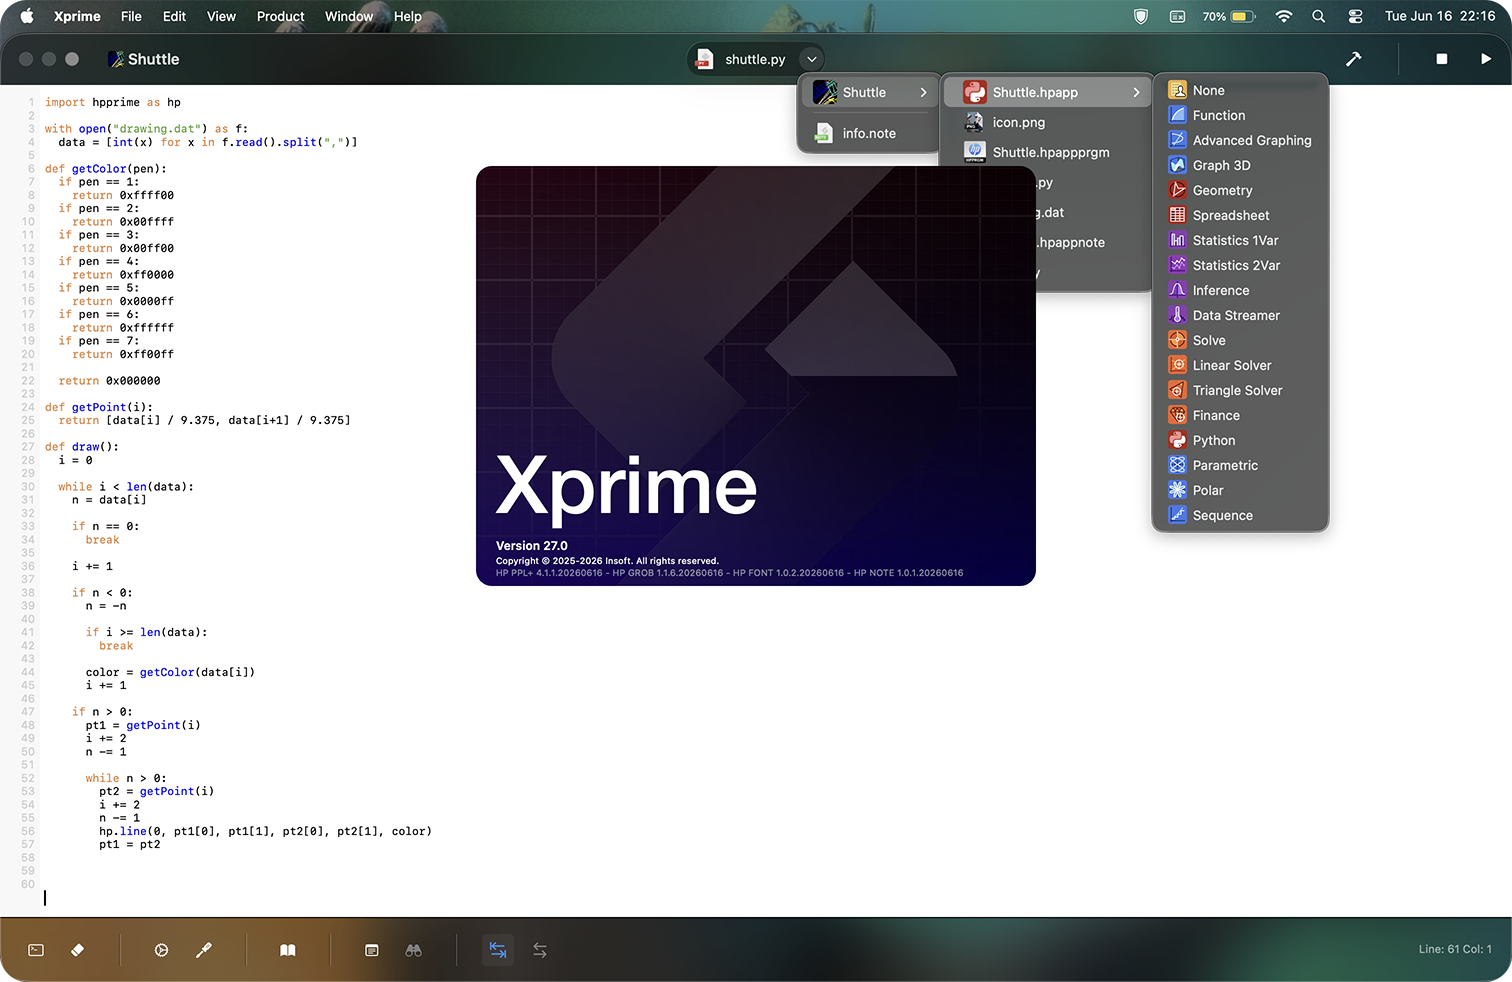
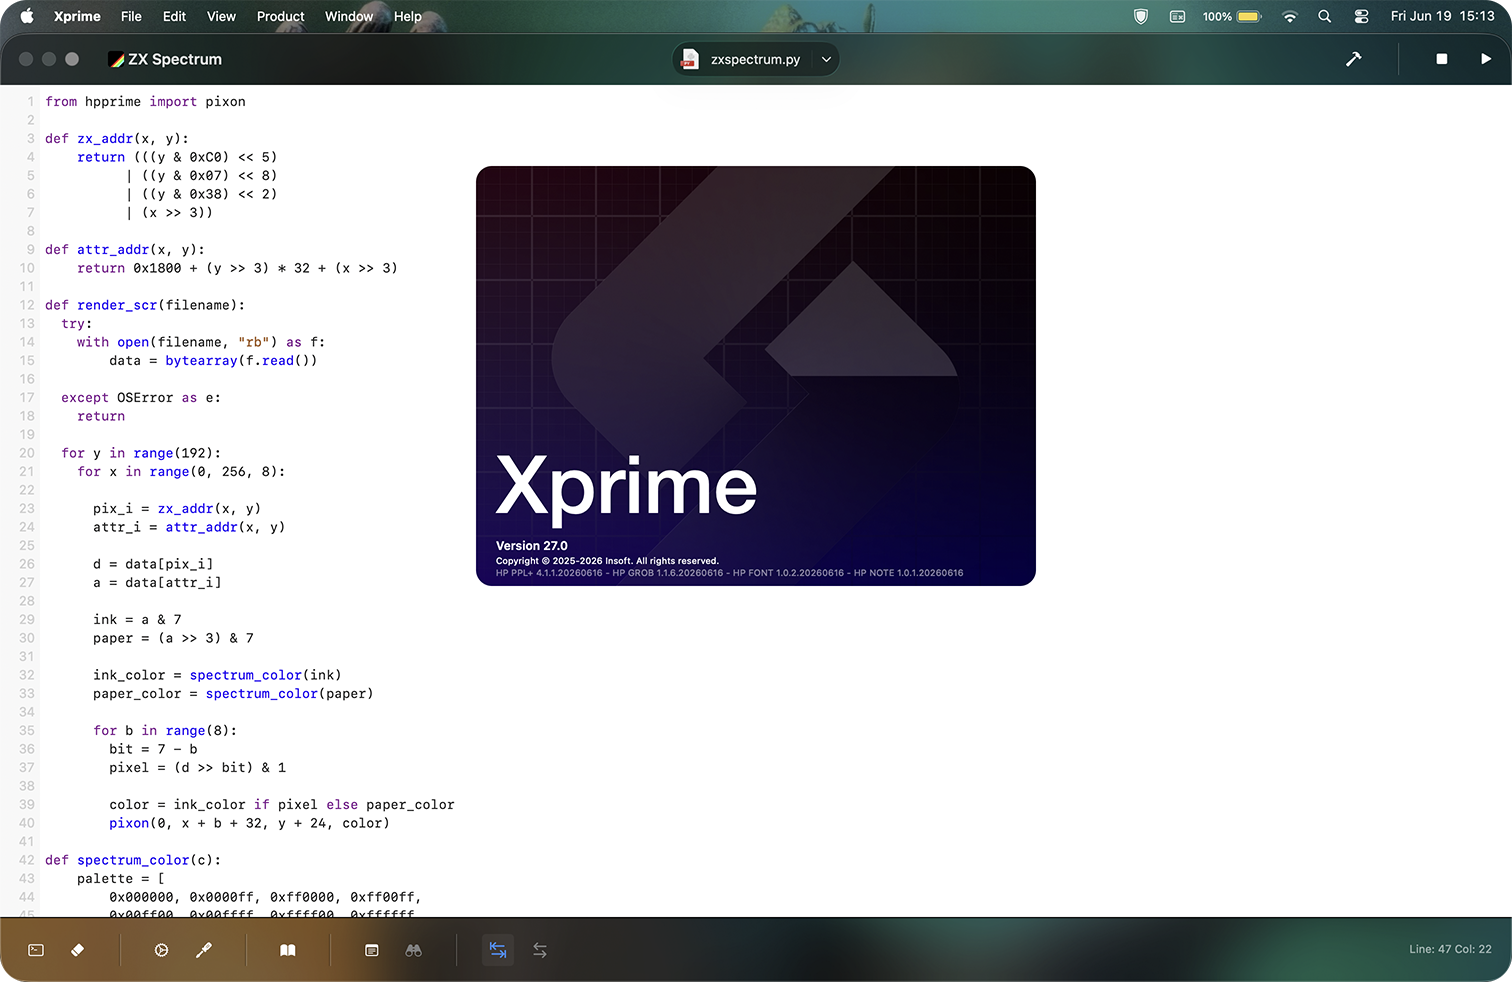
Update

diff --git a/Xcode/Xprime/Xprime/App/MainViewController.swift b/Xcode/Xprime/Xprime/App/MainViewController.swift
@@ -1004,11 +1004,11 @@ final class MainViewController: CustomViewController, NSTextViewDelegate, NSTool
         func createMenu(for url: URL) -> NSMenu {
             let menu = NSMenu()
          
-            var ext = Settings.shared.allowedOpenFileExtensions
-                .filter { !Set(["xprimeproj", "prgm"]).contains($0)}
-            
-            ext.append("bin")
-            ext.append("binary")
+//            var ext = Settings.shared.allowedOpenFileExtensions
+//                .filter { !Set(["xprimeproj", "prgm"]).contains($0)}
+//            
+//            ext.append("bin")
+//            ext.append("binary")
             
             let contents = try? FileManager.default.contentsOfDirectory(
                 at: url,
@@ -1018,8 +1018,10 @@ final class MainViewController: CustomViewController, NSTextViewDelegate, NSTool
             
             contents?
                 .filter { (try? $0.resourceValues(forKeys: [.isDirectoryKey]).isDirectory) == false }
-                .forEach { url in
-                    if ext.contains(url.pathExtension.lowercased()) {
+                .forEach { url in if !["xprimeproj", "prgm", "hpapp"].contains(url.pathExtension.lowercased()) {
+                    
+            
+                    //if ext.contains(url.pathExtension.lowercased()) {
                         menu.addItem(
                             withTitle: url.lastPathComponent,
                             action: #selector(quickOpen(_:)),
@@ -1068,6 +1070,7 @@ final class MainViewController: CustomViewController, NSTextViewDelegate, NSTool
                             
                         default:
                             menu.items.last?.image = file
+                            menu.items.last?.action = nil
                         }
                         
                         menu.items.last?.image?.size = iconSize.big

diff --git a/Xcode/Xprime/Xprime/Features/Editor/Views/CodeEditorTextView.swift b/Xcode/Xprime/Xprime/Features/Editor/Views/CodeEditorTextView.swift
@@ -466,11 +466,15 @@ final class CodeEditorTextView: NSTextView {
         // Auto indentation
         let indentWidth = 2
         let trimmedLine = lineText.trimmingCharacters(in: .whitespaces).lowercased()
-        let increaseIndentKeywords = ["begin", "if", "then", "do", "repeat", "else", "while"]
-        let dedentKeywords = ["end", "until"]
+        let increaseIndentKeywords = ["begin", "if", "elif", "case", "then", "do", "repeat", "else", "while"]
+        let dedentKeywords = ["end", "until", "break", "return", "continue"]
         
-        if increaseIndentKeywords.contains(where: { trimmedLine.hasPrefix($0) }) {
+        if trimmedLine.hasSuffix(":") {
             indentation += String(repeating: " ", count: indentWidth)
+        } else {
+            if increaseIndentKeywords.contains(where: { trimmedLine.hasPrefix($0) }) {
+                indentation += String(repeating: " ", count: indentWidth)
+            }
         }
         
         if dedentKeywords.contains(where: { trimmedLine.hasPrefix($0) }) {

diff --git a/Xcode/Tools/hpppl+/add-ons/grob/src/main.cpp b/Xcode/Tools/hpppl+/add-ons/grob/src/main.cpp
@@ -228,10 +228,12 @@ int main(int argc, const char * argv[]) {
     bool le = true;
     bool data = false;
     
-    enum Language {
-        LanguagePPL, LanguagePython
+    enum Type {
+        TypePPL, TypePython
     };
-    Language language = LanguagePPL;
+    Type type = TypePPL;
+    
+    std::string outpath_extension;
     
     std::string utf8;
     std::ostringstream os;
@@ -267,10 +269,15 @@ int main(int argc, const char * argv[]) {
             args = argv[n];
             
             if (args == "python" || args == "py") {
-                language = LanguagePython;
+                outpath_extension = ".py";
             }
+            
             if (args == "hpppl" || args == "ppl") {
-                language = LanguagePPL;
+                outpath_extension = ".hpppl";
+            }
+            
+            if (args == "cpp" || args == "c") {
+                outpath_extension = ".c";
             }
             continue;
         }
@@ -339,6 +346,10 @@ int main(int argc, const char * argv[]) {
         inpath = resolveAndValidateInputFile(argv[n]);
     }
     outpath = resolveOutputPath(inpath, outpath);
+    if (outpath_extension.empty()) {
+        outpath_extension = std::lowercased(outpath.extension().string());
+    }
+    
 
     if (name == "*") {
         name = inpath.stem().string();
@@ -425,72 +436,105 @@ int main(int argc, const char * argv[]) {
 
     if (columns < 1) columns = 1;
     
-    switch (bitmap.bpp) {
-        case 0:
-            if (name.size()) utf8 += name + " := ";
-            utf8 += "{\n" + ppl(bitmap.bytes.data(), lengthInBytes, columns, le) + "\n}";
-            break;
-
-        case 1:
-        case 4:
-        case 8:
-            if (name.size()) os << name << " := ";
-            os << "{\n";
-            os << "  {\n" << ppl(bitmap.bytes.data(), lengthInBytes, columns, le) << "\n  },\n";
-            os << "  { " << std::dec << std::to_string(bitmap.width) << ", " << std::to_string(bitmap.height) << ", " << std::to_string(bitmap.bpp) << " },\n";
-
-            os << "  {\n    ";
-            for (int i = 0; i < bitmap.palette.size(); i += 1) {
-                uint32_t color = bitmap.palette.at(i);
-#ifdef __LITTLE_ENDIAN__
-                color = std::byteswap(color);
-#endif
-                color &= 0xFFFFFF;
-                if (i) os << ", ";
-                if (i % 16 == 0 && i) os << "\n    ";
-                os << "#" << std::uppercase << std::hex << std::setfill('0') << std::setw(6) << color << ":32h";
-            }
-            os << "\n  }\n}";
-            
-            utf8.append(os.str());
-            break;
-
-        default:
-            if (data) {
-                os << "{\n" << ppl(bitmap.bytes.data(), lengthInBytes, columns, le) << "\n};\n";
-            } else {
+    if (outpath_extension != ".bin") {
+        
+        switch (bitmap.bpp) {
+            case 0:
+                if (name.size()) utf8 += name + " := ";
+                utf8 += "{\n" + ppl(bitmap.bytes.data(), lengthInBytes, columns, le) + "\n}";
+                break;
+                
+            case 1:
+            case 4:
+            case 8:
                 if (name.size()) os << name << " := ";
                 os << "{\n";
                 os << "  {\n" << ppl(bitmap.bytes.data(), lengthInBytes, columns, le) << "\n  },\n";
-                os << "  { " << std::dec << std::to_string(bitmap.width) << ", " << std::to_string(bitmap.height) << ", " << std::to_string(bitmap.bpp) << " }\n";
-                os << "}";
-            }
-            utf8.append(os.str());
-            break;
-    }
-    
-    if (language == LanguagePython) {
-        // Convert .hpppl to .py
-        utf8 = replaceAll(utf8, "#", "0x");
-        utf8 = replaceAll(utf8, ":64h", "");
-        utf8 = replaceAll(utf8, "{", "[");
-        utf8 = replaceAll(utf8, "}", "]");
+                os << "  { " << std::dec << std::to_string(bitmap.width) << ", " << std::to_string(bitmap.height) << ", " << std::to_string(bitmap.bpp) << " },\n";
+                
+                os << "  {\n    ";
+                for (int i = 0; i < bitmap.palette.size(); i += 1) {
+                    uint32_t color = bitmap.palette.at(i);
+#ifdef __LITTLE_ENDIAN__
+                    color = std::byteswap(color);
+#endif
+                    color &= 0xFFFFFF;
+                    if (i) os << ", ";
+                    if (i % 16 == 0 && i) os << "\n    ";
+                    os << "#" << std::uppercase << std::hex << std::setfill('0') << std::setw(6) << color << ":32h";
+                }
+                os << "\n  }\n}";
+                
+                utf8.append(os.str());
+                break;
+                
+            default:
+                if (data) {
+                    os << "{\n" << ppl(bitmap.bytes.data(), lengthInBytes, columns, le) << "\n};\n";
+                } else {
+                    if (name.size()) os << name << " := ";
+                    os << "{\n";
+                    os << "  {\n" << ppl(bitmap.bytes.data(), lengthInBytes, columns, le) << "\n  },\n";
+                    os << "  { " << std::dec << std::to_string(bitmap.width) << ", " << std::to_string(bitmap.height) << ", " << std::to_string(bitmap.bpp) << " }\n";
+                    os << "}";
+                }
+                utf8.append(os.str());
+                break;
+        }
+        
+        if (outpath_extension == ".c") {
+            utf8 = replaceAll(utf8, "#", "0x");
+            utf8 = regex_replace(utf8, std::regex(R"(:\d+h)"), "");
+            utf8 = regex_replace(utf8, std::regex(R"(\{\n  (?=\{))"), "$0.bitmap = ");
+            utf8 = regex_replace(utf8, std::regex(R"(  \},\n  (?=\{))"), "$0.info = ");
+            utf8 = regex_replace(utf8, std::regex(R"(,\n  \{)"), ",\n  .palette = {");
+            utf8 = regex_replace(utf8, std::regex(R"(^\{)"), "\
+typedef struct {\n\
+  uint64_t bitmap[@bitmap];\n\
+  uint16_t info[3];\n\
+  uint32_t palette[@palette];\n\
+} ImageData;\n\n\
+const ImageData image = {");
+            utf8 += ';';
+            
+            utf8 = regex_replace(utf8, std::regex(R"(@bitmap)"), std::to_string(lengthInBytes / 8));
+            utf8 = regex_replace(utf8, std::regex(R"(@palette)"), std::to_string(bitmap.palette.size()));
+            
+        }
+        
+        if (outpath_extension == ".py") {
+            utf8 = replaceAll(utf8, "#", "0x");
+            utf8 = regex_replace(utf8, std::regex(R"(:\d+h)"), "");
+            utf8 = replaceAll(utf8, "{", "[");
+            utf8 = replaceAll(utf8, "}", "]");
+        }
+        
+        
     }
 
     if (outpath == "/dev/stdout") {
         std::cout << utf8;
     } else {
-        auto extension = std::lowercased(outpath.extension().string());
         
-        if (extension == ".prgm" || extension == ".hpprgm") {
-            if (extension == ".hpprgm") {
-                hpprgm::write(outpath, utf8);
-            } else {
-                std::wstring utf16 = utf::utf16(utf8);
-                utf::save(outpath, utf16);
-            }
+        if (outpath_extension == ".bin") {
+            std::ofstream f(outpath, std::ios::binary);
+            if (!f) throw std::runtime_error("Cannot write file");
+            f.write((const char*)&bitmap.width, sizeof(uint16_t));
+            f.write((const char*)&bitmap.height, sizeof(uint16_t));
+            f.write((const char*)&bitmap.bpp, sizeof(uint8_t));
+            f.write((const char*)bitmap.palette.data(), sizeof(uint16_t) * bitmap.palette.size());
+            f.write((const char*)bitmap.bytes.data(), lengthInBytes);
         } else {
-            utf::save(outpath, utf8);
+            if (outpath_extension == ".prgm" || outpath_extension == ".hpprgm") {
+                if (outpath_extension == ".hpprgm") {
+                    hpprgm::write(outpath, utf8);
+                } else {
+                    std::wstring utf16 = utf::utf16(utf8);
+                    utf::save(outpath, utf16);
+                }
+            } else {
+                utf::save(outpath, utf8);
+            }
         }
         
         if (fs::exists(outpath)) {

diff --git a/Xcode/Tools/hpnote/version_code.h b/Xcode/Tools/hpnote/version_code.h
@@ -21,9 +21,9 @@
 // SOFTWARE.
 
 #define VERSION_NUMBER        "1.0.1"
-#define VERSION_CODE          "A0B05-26FF"
-#define NUMERIC_BUILD          10105
-#define BUNDLE_VERSION        "20260616"
-#define INTERNAL_BUILD_CODE   "A0B05"
-#define DATE                  "2026 June 16"
+#define VERSION_CODE          "A0B06-26FI"
+#define NUMERIC_BUILD          10106
+#define BUNDLE_VERSION        "20260619"
+#define INTERNAL_BUILD_CODE   "A0B06"
+#define DATE                  "2026 June 19"
 #define YEAR                  "2026"

diff --git a/Xcode/Tools/hpppl+/add-ons/addon/version_code.h b/Xcode/Tools/hpppl+/add-ons/addon/version_code.h
@@ -21,9 +21,9 @@
 // SOFTWARE.
 
 #define VERSION_NUMBER        "1.0.0"
-#define VERSION_CODE          "A0A03-26F4"
-#define NUMERIC_BUILD          10003
-#define BUNDLE_VERSION        "20260605"
-#define INTERNAL_BUILD_CODE   "A0A03"
-#define DATE                  "2026 June 05"
+#define VERSION_CODE          "A0A04-26FI"
+#define NUMERIC_BUILD          10004
+#define BUNDLE_VERSION        "20260619"
+#define INTERNAL_BUILD_CODE   "A0A04"
+#define DATE                  "2026 June 19"
 #define YEAR                  "2026"

diff --git a/Xcode/Tools/hpppl+/add-ons/grob/version_code.h b/Xcode/Tools/hpppl+/add-ons/grob/version_code.h
@@ -21,9 +21,9 @@
 // SOFTWARE.
 
 #define VERSION_NUMBER        "1.1.6"
-#define VERSION_CODE          "A1G01-26FF"
-#define NUMERIC_BUILD          11601
-#define BUNDLE_VERSION        "20260616"
-#define INTERNAL_BUILD_CODE   "A1G01"
-#define DATE                  "2026 June 16"
+#define VERSION_CODE          "A1G05-26FI"
+#define NUMERIC_BUILD          11605
+#define BUNDLE_VERSION        "20260619"
+#define INTERNAL_BUILD_CODE   "A1G05"
+#define DATE                  "2026 June 19"
 #define YEAR                  "2026"

diff --git a/Xcode/Tools/hpppl+/add-ons/hpfont/version_code.h b/Xcode/Tools/hpppl+/add-ons/hpfont/version_code.h
@@ -21,9 +21,9 @@
 // SOFTWARE.
 
 #define VERSION_NUMBER        "1.0.2"
-#define VERSION_CODE          "A0C05-26FF"
-#define NUMERIC_BUILD          10205
-#define BUNDLE_VERSION        "20260616"
-#define INTERNAL_BUILD_CODE   "A0C05"
-#define DATE                  "2026 June 16"
+#define VERSION_CODE          "A0C07-26FI"
+#define NUMERIC_BUILD          10207
+#define BUNDLE_VERSION        "20260619"
+#define INTERNAL_BUILD_CODE   "A0C07"
+#define DATE                  "2026 June 19"
 #define YEAR                  "2026"

diff --git a/Xcode/Tools/hpppl+/version_code.h b/Xcode/Tools/hpppl+/version_code.h
@@ -21,9 +21,9 @@
 // SOFTWARE.
 
 #define VERSION_NUMBER        "4.1.1"
-#define VERSION_CODE          "D1B08-26FF"
-#define NUMERIC_BUILD          41108
-#define BUNDLE_VERSION        "20260616"
-#define INTERNAL_BUILD_CODE   "D1B08"
-#define DATE                  "2026 June 16"
+#define VERSION_CODE          "D1B10-26FI"
+#define NUMERIC_BUILD          41110
+#define BUNDLE_VERSION        "20260619"
+#define INTERNAL_BUILD_CODE   "D1B10"
+#define DATE                  "2026 June 19"
 #define YEAR                  "2026"